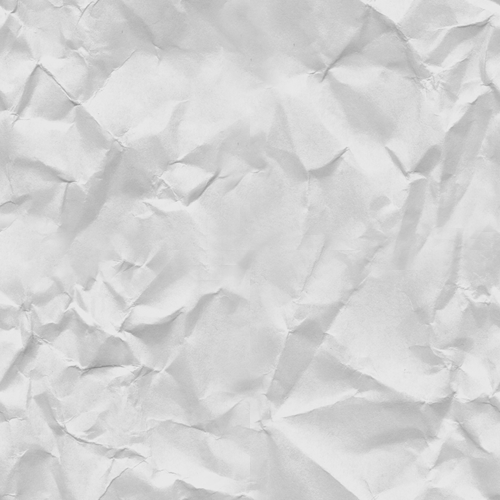
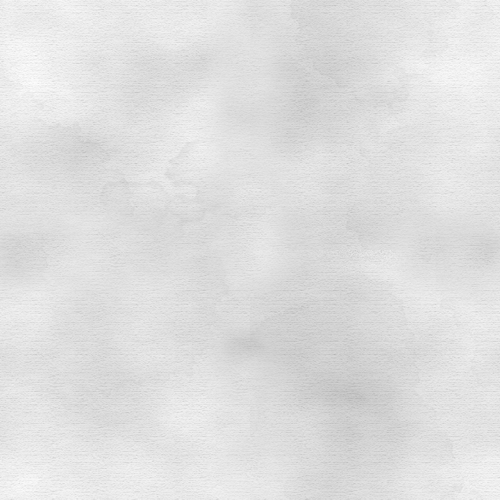
updates

diff --git a/app/assets/stylesheets/application.css.scss b/app/assets/stylesheets/application.css.scss
@@ -13,7 +13,7 @@
  */
 
  body {
-   background-image:url('Fabric-4.png');
+   background-image:url('paper.png');
  }
 .content {
   padding: 20px;
